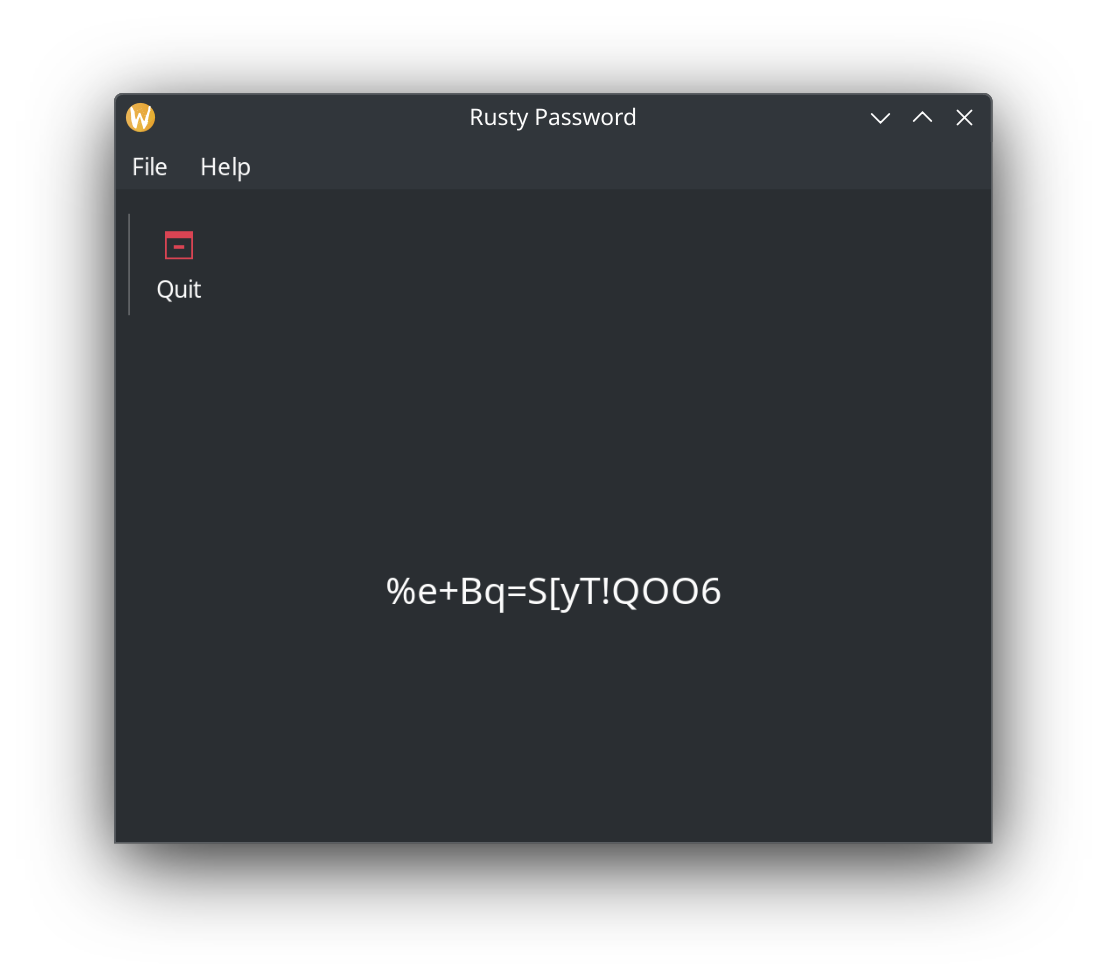
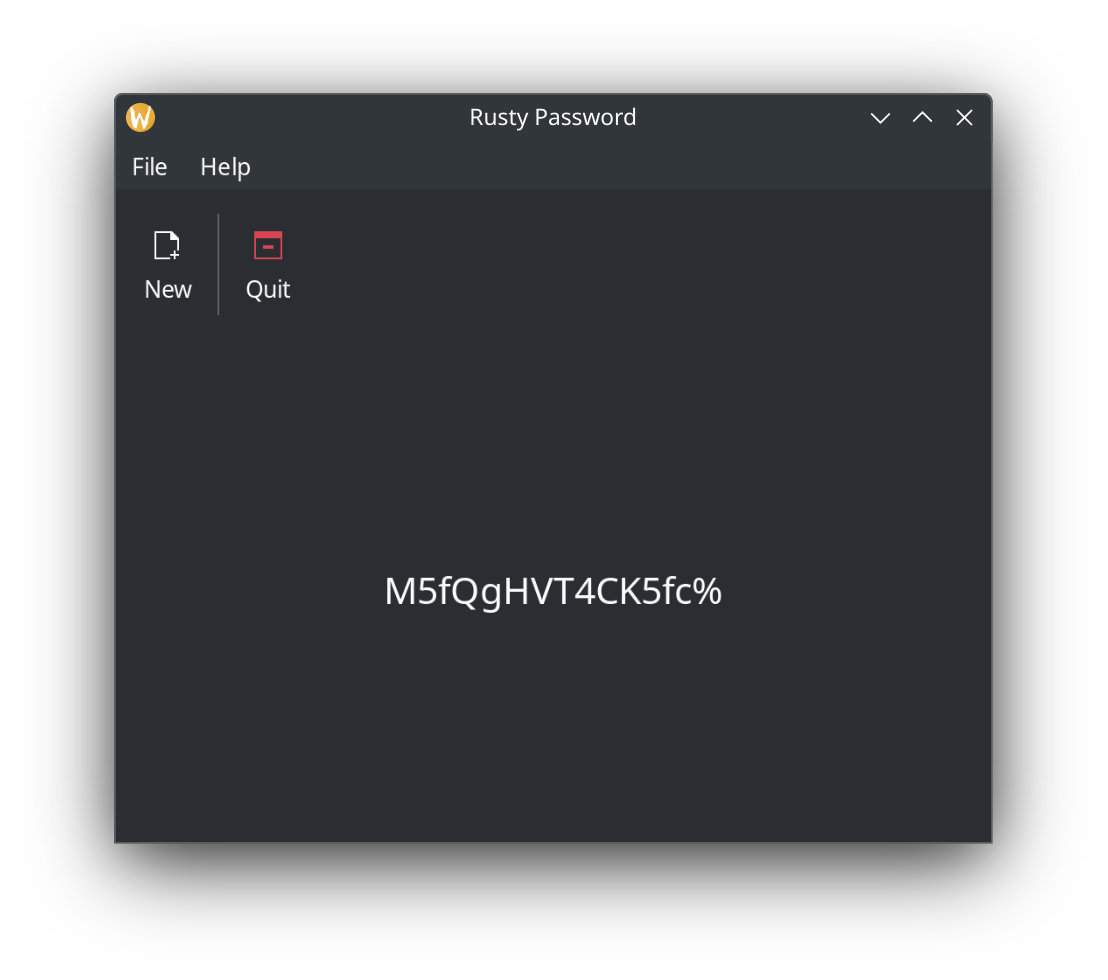
updated readme and enable new button

Changed region(s): [[0.3375, 0.5816, 0.6444, 0.6429], [0.1227, 0.2143, 0.1841, 0.3061], [0.2148, 0.2143, 0.2762, 0.3061]]

diff --git a/src/main.rs b/src/main.rs
@@ -6,7 +6,7 @@ extern crate gtk;
 use gtk::glib::Propagation;
 use gtk::prelude::*;
 use gtk::{Window, WindowType, Label, Menu, MenuBar, MenuItem, IconSize, Image, AboutDialog, Toolbar, ToolButton,
-    ToolbarStyle, SeparatorToolItem, FileChooserDialog, FileChooserAction, ResponseType};
+    ToolbarStyle, SeparatorToolItem};
 use clap::Parser;
 use std::rc::Rc;
 use std::borrow::Borrow;
@@ -113,25 +113,6 @@ impl GWCApp {
         }
     }
 
-    ///  Called when the user selects the
-    /// File->Open option
-    fn on_menu_open(win:&Rc<Window>, _lbl : &Rc<Label>) {
-        let filesel = FileChooserDialog::new(Some("Choose a file"), Some(win.as_ref()),
-                                                    FileChooserAction::Open);
-        filesel.add_buttons(&[
-            ("Open", ResponseType::Ok.into()),
-            ("Cancel", ResponseType::Cancel.into())
-        ]);
-
-        filesel.set_select_multiple(true);
-        filesel.run();
-        let _file = filesel.filename();
-        filesel.close();
-
-    }
-
-
-
     /// Creates the application menus
     fn init_menus (&self) -> MenuBar {
         let menu = Menu::new();
@@ -212,9 +193,9 @@ impl GWCApp {
         let toolbar = Toolbar::new();
         toolbar.set_style(ToolbarStyle::Both);
 
-        // let open_btn_image = Image::from_icon_name(Some("document-open"), IconSize::LargeToolbar.into());
-        // let open_btn = ToolButton::new(Some(&open_btn_image), Some("Open"));
-        // toolbar.insert(&open_btn, 0);
+        let new_pass_button_image = Image::from_icon_name(Some("document-new"), IconSize::LargeToolbar.into());
+        let new_pass_button = ToolButton::new(Some(&new_pass_button_image), Some("New"));
+        toolbar.insert(&new_pass_button, 0);
 
         let sep = SeparatorToolItem::new();
         toolbar.insert(&sep, 1);
@@ -224,16 +205,16 @@ impl GWCApp {
         toolbar.insert(&quit_btn, 2);
 
 
-        // if let Some (ref label) = self.passwd_label {
-        //     if let Some (ref win) = self.window {
-        //         let w = win.to_owned().clone();
-        //         let l = label.clone();
+        if let Some (ref label) = self.passwd_label {
+            if let Some (ref win) = self.window {
+                let w = win.to_owned().clone();
+                let l = label.clone();
 
-        //         // open_btn.connect_clicked(move |_| {
-        //         //     GWCApp::on_menu_open(&w, &l);
-        //         // });
-        //     }
-        // }
+                new_pass_button.connect_clicked(move |_| {
+                    GWCApp::set_password(&w, &l);
+                });
+            }
+        }
 
         quit_btn.connect_clicked(|_| {
             gtk::main_quit();

diff --git a/README.md b/README.md
@@ -20,6 +20,7 @@ The "--simple" option removes some characters that can cause issues with some pa
 ![current gui](screenshots/current_gui.png "Current GUI")
 
 ![current cli](screenshots/current_cli.png "Current CLI")
+
 TODO:
 - [x] Increase the font size of the password
 - [x] Make sure password contains at least one of each char type
@@ -27,3 +28,6 @@ TODO:
 - [ ] Auto-add the generated password to the clipboard
 - [ ] Add GUI option to alter password length
 - [ ] Add GUI option for simple vs complex passwords
+
+## Thanks
+Thanks to https://github.com/pjmlp/gwc-rs/ for showing the way forward with the GUI
